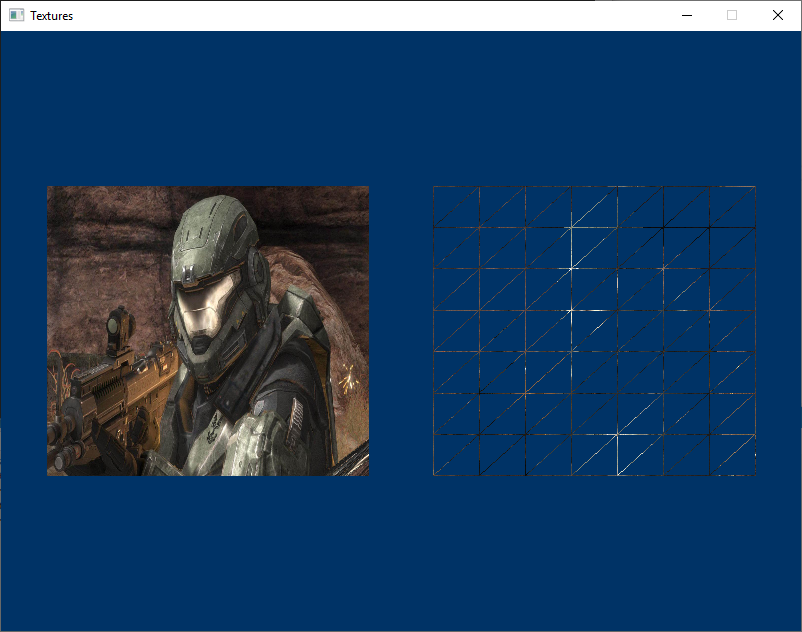
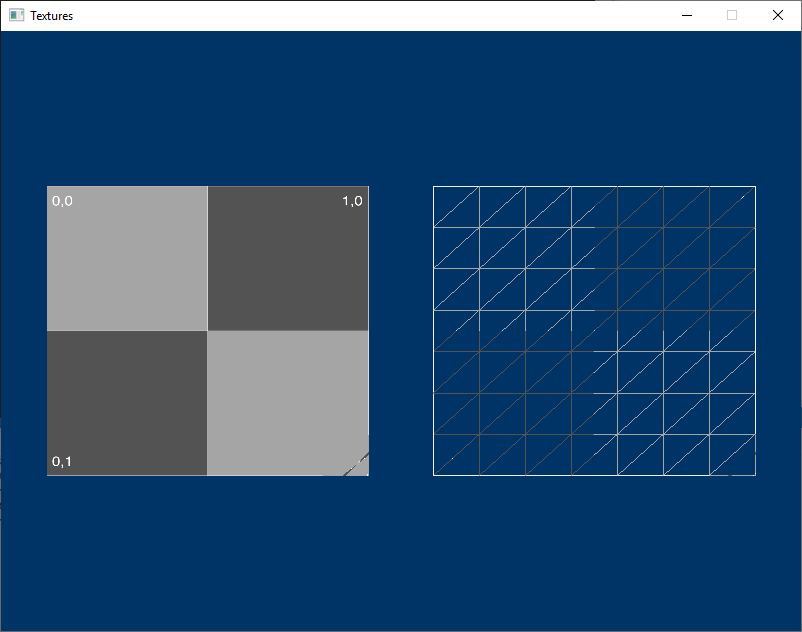
Update

diff --git a/Src/[10] Textures/Graphics/SamplerState.cs b/Src/[10] Textures/Graphics/SamplerState.cs
@@ -33,14 +33,14 @@ namespace Graphics
 
 
             SamplerStateDescription SamplerDesc = new SamplerStateDescription();
-            SamplerDesc.Filter = Filter.MinMagMipLinear;
+            SamplerDesc.Filter = Filter;
             SamplerDesc.AddressU = AddressU;
             SamplerDesc.AddressV = AddressV;
             SamplerDesc.AddressW = AddressW;
             SamplerDesc.MipLodBias = 0;
             SamplerDesc.MaximumAnisotropy = 1;
             SamplerDesc.ComparisonFunction = Comparison.Always;
-            SamplerDesc.BorderColor = new  SharpDX.Mathematics.Interop.RawColor4(0, 0, 0, 0);  // Black Border.
+            SamplerDesc.BorderColor = new SharpDX.Mathematics.Interop.RawColor4(1, 1, 1, 1);
             SamplerDesc.MinimumLod = 0;
             SamplerDesc.MaximumLod = float.MaxValue;
 

diff --git a/Src/[10] Textures/Systems/RenderSystem.cs b/Src/[10] Textures/Systems/RenderSystem.cs
@@ -92,7 +92,7 @@ namespace Systems
 
             World = new Matrix[2];
 
-            CubesTexture1 = Texture.LoadFromFile(Device, "Halo.jpg");
+            CubesTexture1 = Texture.LoadFromFile(Device, "UV_Grid_Lrg.jpg");
         }
 
 
@@ -100,7 +100,7 @@ namespace Systems
         {
             Camera.Update();
 
-            R += .012f;
+            R += .0f;
 
 
             // Reset World[0]
